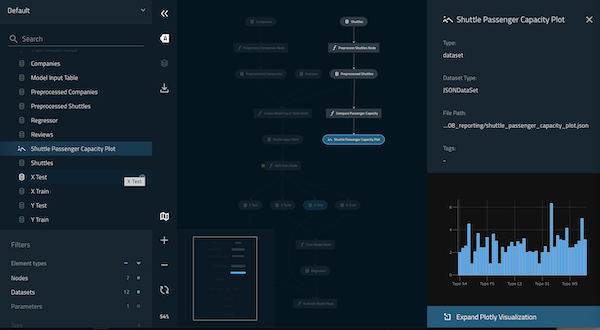
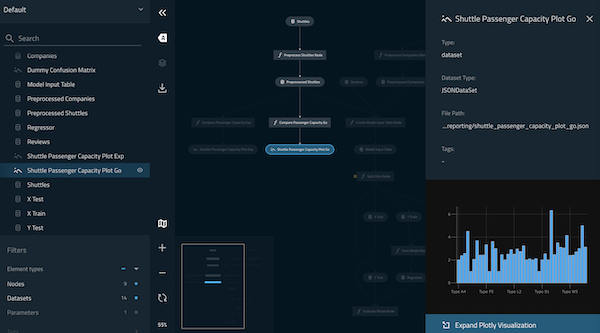
Update copy and graphics

diff --git a/docs/source/visualisation/visualise_charts_with_plotly.md b/docs/source/visualisation/visualise_charts_with_plotly.md
@@ -21,10 +21,16 @@ There are two types of Plotly datasets supported by Kedro:
 * `plotly.PlotlyDataSet` which only supports [Plotly Express](https://plotly.com/python/plotly-express)
 * `plotly.JSONDataSet` which supports Plotly Express and [Plotly Graph Objects](https://plotly.com/python/graph-objects/)
 
-To use the Plotly datasets, you must update the `requirements.txt` file in the `src` folder of your Kedro project to add the following:
+To use the Plotly datasets, you must update the `requirements.txt` file in the `src` folder of your Kedro project to add the following dependencies:
+
+```{note}
+At the time of writing, the tutorial works up to Kedro version 0.18.3 so you need to pin the versions as shown.
+```
 
 ```text
-kedro-datasets[plotly.PlotlyDataSet, plotly.JSONDataSet]~=1.0.0
+kedro==0.18.3
+kedro[pandas.CSVDataSet, pandas.ExcelDataSet, pandas.ParquetDataSet]==0.18.3
+kedro[plotly.PlotlyDataSet, plotly.JSONDataSet]==0.18.3
 ```
 
 Navigate to the root directory of the project in your terminal and install the dependencies for the tutorial project:
@@ -38,9 +44,10 @@ pip install -r src/requirements.txt
 To use the datasets, add them to the Data Catalog by updating `conf/base/catalog.yml`:
 
 ```yaml
-shuttle_passenger_capacity_plot:
+shuttle_passenger_capacity_plot_exp:
   type: plotly.PlotlyDataSet
-  filepath: data/08_reporting/shuttle_passenger_capacity_plot.json
+  filepath: data/08_reporting/shuttle_passenger_capacity_plot_exp.json
+  versioned: true
   plotly_args:
     type: bar
     fig:
@@ -52,10 +59,10 @@ shuttle_passenger_capacity_plot:
       yaxis_title: Average passenger capacity
       title: Shuttle Passenger capacity
 
-shuttle_passenger_capacity_plot:
+shuttle_passenger_capacity_plot_go:
   type: plotly.JSONDataSet
-  filepath: data/08_reporting/shuttle_passenger_capacity_plot.json
-
+  filepath: data/08_reporting/shuttle_passenger_capacity_plot_go.json
+  versioned: true
 ```
 
 
@@ -76,23 +83,14 @@ import plotly.express as px
 import plotly.graph_objs as go
 import pandas as pd
 
-
-def compare_passenger_capacity(preprocessed_shuttles: pd.DataFrame):
+# This function uses plotly.express
+def compare_passenger_capacity_exp(preprocessed_shuttles: pd.DataFrame):
     return preprocessed_shuttles.groupby(["shuttle_type"]).mean().reset_index()
 
 
-# This function uses plotly.express
-def compare_passenger_capacity(preprocessed_shuttles: pd.DataFrame):
-    fig = px.bar(
-        data_frame=preprocessed_shuttles.groupby(["shuttle_type"]).mean().reset_index(),
-        x="shuttle_type",
-        y="passenger_capacity",
-    )
-    return fig
-
-
 # This function uses plotly.graph_objects
-def compare_passenger_capacity(preprocessed_shuttles: pd.DataFrame):
+def compare_passenger_capacity_go(preprocessed_shuttles: pd.DataFrame):
+
     data_frame = preprocessed_shuttles.groupby(["shuttle_type"]).mean().reset_index()
     fig = go.Figure(
         [
@@ -102,6 +100,7 @@ def compare_passenger_capacity(preprocessed_shuttles: pd.DataFrame):
             )
         ]
     )
+
     return fig
 ```
 
@@ -111,21 +110,24 @@ Update `src/kedro_tutorial/pipelines/reporting/pipeline.py` to replace the exist
 
 ```python
 from kedro.pipeline import Pipeline, node, pipeline
-from .nodes import compare_passenger_capacity
-
+from .nodes import compare_passenger_capacity_exp, compare_passenger_capacity_go
 
 def create_pipeline(**kwargs) -> Pipeline:
-    """This is a simple pipeline which generates a plot"""
+    """This is a simple pipeline which generates a pair of plots"""
     return pipeline(
         [
             node(
-                func=compare_passenger_capacity,
+                func=compare_passenger_capacity_exp,
                 inputs="preprocessed_shuttles",
-                outputs="shuttle_passenger_capacity_plot",
+                outputs="shuttle_passenger_capacity_plot_exp",
+            ),
+            node(
+                func=compare_passenger_capacity_go,
+                inputs="preprocessed_shuttles",
+                outputs="shuttle_passenger_capacity_plot_go",
             ),
         ]
-    )
-```
+    )```
 
 
 ### Run the pipeline
@@ -138,16 +140,15 @@ kedro run
 
 Then visualise with `kedro viz`
 
-You will see a new dataset type as an icon:
+The generated charts are shown as follows:
 
 ![](../meta/images/chart-icon.png).
 
-Click on the node to see a small preview of your Plotly chart in the metadata panel.
+Click on each of see a small preview in the metadata panel:
 
 ![](../meta/images/pipeline_visualisation_plotly_1.png)
 
-
-You can view the larger visualisation of the chart by clicking the 'Expand Plotly Visualisation' button on the bottom of the metadata panel.
+View the larger visualisation of the chart by clicking the 'Expand Plotly Visualisation' button on the bottom of the metadata panel.
 
 ![](../meta/images/pipeline_visualisation_plotly_expand_1.png)
 
@@ -167,7 +168,7 @@ You can view Matplotlib charts in Kedro-Viz when you use the [Kedro MatplotLibWr
 You must update the `src/requirements.txt` file in your Kedro project by adding the following dataset to enable Matplotlib for your project:
 
 ```bash
-kedro-datasets[matplotlib.MatplotlibWriter]~=1.0.0
+kedro[matplotlib.MatplotlibWriter]==0.18.3
 ```
 
 ### Configure the Data Catalog
@@ -186,6 +187,8 @@ Add the following to `src/kedro_tutorial/pipelines/reporting/nodes.py`:
 ```python
 import matplotlib.pyplot as plt
 import seaborn as sn
+
+...
 
 
 def create_confusion_matrix(companies: pd.DataFrame):
@@ -211,6 +214,8 @@ Update `src/kedro_tutorial/pipelines/reporting/pipeline.py` to add the following
 ```python
 from .nodes import create_confusion_matrix
 
+...
+
 
 def create_pipeline(**kwargs) -> Pipeline:
     """This is a simple pipeline which generates a plot"""
@@ -229,14 +234,10 @@ def create_pipeline(**kwargs) -> Pipeline:
 
 Run the pipelines with `kedro run` and then visualise the result with `kedro viz`.
 
-Your Kedro-Viz pipeline will show a new dataset node with this icon
-
-![](../meta/images/chart-icon.png).
-
-Click on the node to see a small preview of your Matplotlib image in the metadata panel.
+Click to see a small preview of your Matplotlib image in the metadata panel.
 
 ![](../meta/images/pipeline_visualisation_matplotlib.png)
 
-You can view the larger visualisation of the chart by clicking the 'Expand Matplotlib Image' button on the bottom of the metadata panel.
+View the larger visualisation of the chart by clicking the 'Expand Matplotlib Image' button on the bottom of the metadata panel.
 
 ![](../meta/images/pipeline_visualisation_matplotlib_expand.png)
